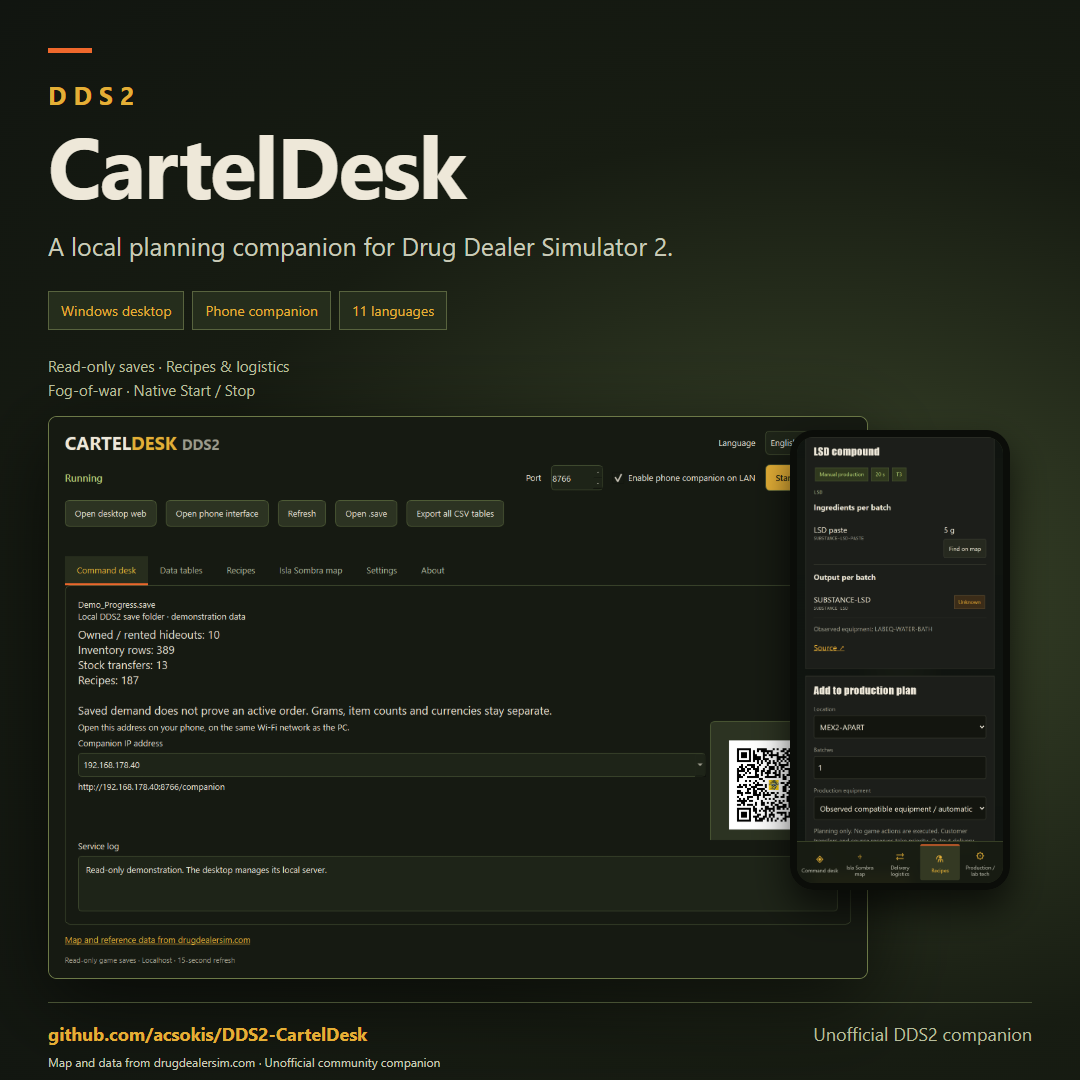
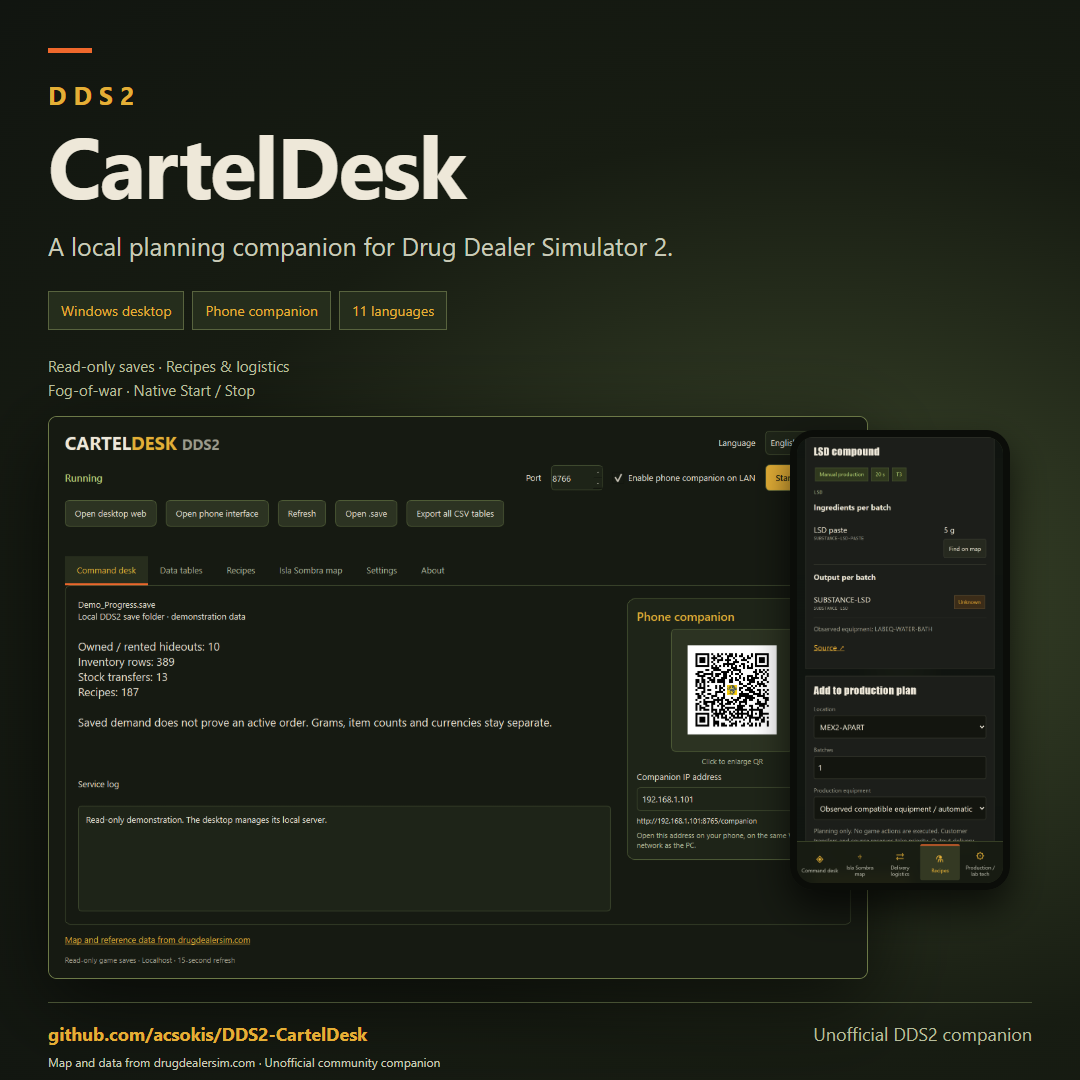
Refresh final upper-right companion card docs and screenshots

diff --git a/media/README.md b/media/README.md
@@ -48,6 +48,6 @@ When sharing a post, keep both the wiki credit/link and the non-affiliation stat
 
 Media refreshed: 2026-10-06. All captures show the current application. Covers include the wiki credit directly on the image; keep attribution when publishing.
 
-Current release: v1.0.1. Native screenshots show the selectable companion IP and QR card. The QR popup uses a documented example LAN address, not a working public demonstration endpoint. The Windows package has one top-level CartelDesk.exe and a runtime folder containing its Qt dependencies and backend. The owned server stops when the desktop closes or is terminated.
+Current release: v1.0.1. Native screenshots show the upper-right Command Desk companion card, with its selectable IP, URL and clickable QR. The QR popup uses a documented example LAN address, not a working public demonstration endpoint. The Windows package has one top-level CartelDesk.exe and a runtime folder containing its Qt dependencies and backend. The owned server stops when the desktop closes or is terminated.
 
 Official DDS2 icon: sourced from the [game’s Steam community page](https://steamcommunity.com/app/1708850/), used as the Windows application/browser icon and in the QR centre. QR codes use high error correction; both the displayed card and enlarged output are checked by decoding. The artwork belongs to its respective rights holders. Wiki permission covers its map and curation, not game artwork or underlying game IP; no endorsement is implied.

diff --git a/README.md b/README.md
@@ -52,7 +52,7 @@ The mask uses saved discovery flags and coordinates; it is **not the game's pixe
 
 ## Companion QR and server lifecycle
 
-Enable companion access and start the service. On the Overview tab, choose the local IP address of the adapter shared with your phone, then scan its QR code. Click the QR card to open a larger window and use the size slider; closing it leaves the card in its original place. The chosen address is remembered. The phone and PC must share a private network, and Windows Firewall must allow companion access. QR codes are generated locally, without sending the URL to an external service.
+Enable companion access and start the service. In the upper-right companion card on the Command Desk tab, choose the local IP address of the adapter shared with your phone, then scan its QR code. Click the QR card to open a larger window and use the size slider; closing it leaves the card in its original place. The chosen address is remembered. The phone and PC must share a private network, and Windows Firewall must allow companion access. QR codes are generated locally, without sending the URL to an external service.
 
 The backend runs in the background while the desktop is open. Stop ends the owned server; closing the desktop also stops it. A parent-process watcher terminates the server if the desktop is forcibly terminated, even during an incomplete network request.
 

diff --git a/RELEASE_NOTES.md b/RELEASE_NOTES.md
@@ -2,7 +2,7 @@
 
 Windows x64 update: native Qt 6.12 Widgets desktop, desktop web and portrait phone companion.
 
-- Companion QR with selectable LAN IP, enlarged dialog and size slider; remembered address.
+- Upper-right Command Desk companion card: QR with selectable LAN IP, enlarged dialog and size slider; remembered address.
 - One top-level CartelDesk.exe; Qt dependencies and backend grouped in runtime/.
 - Parent-process watcher ends orphan servers even during incomplete network requests.
 - README, screenshots, covers and posting drafts refreshed.
